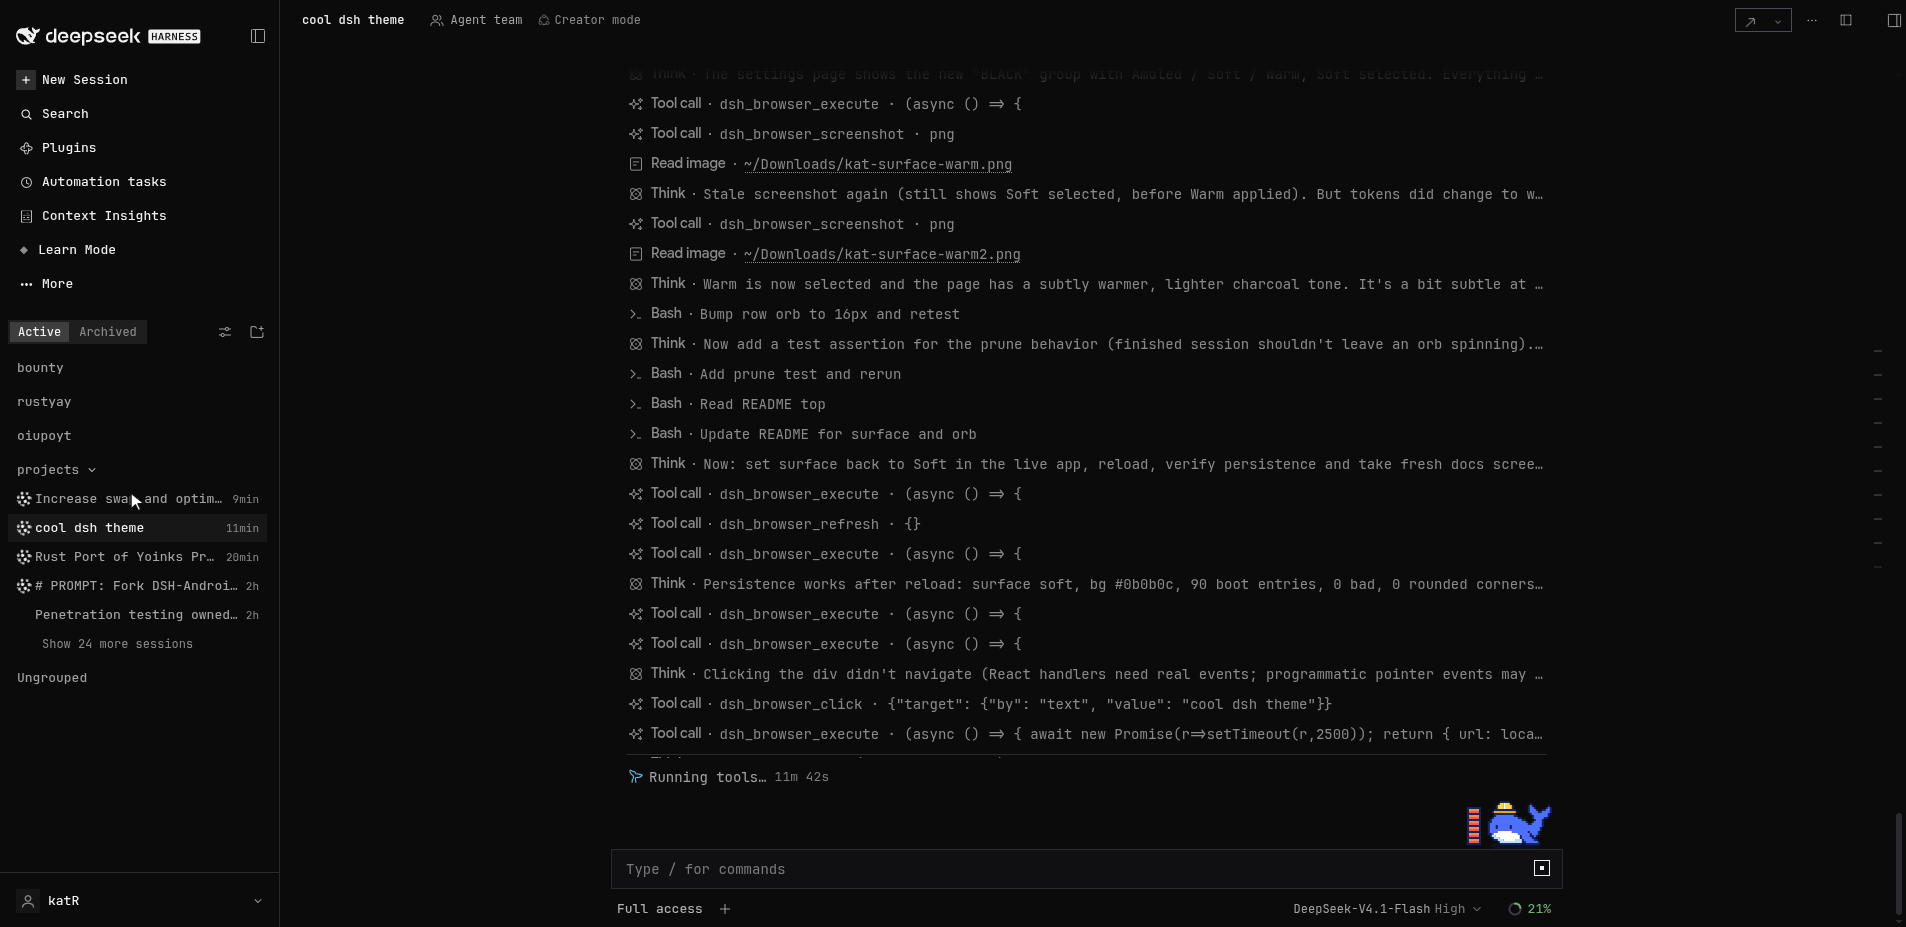
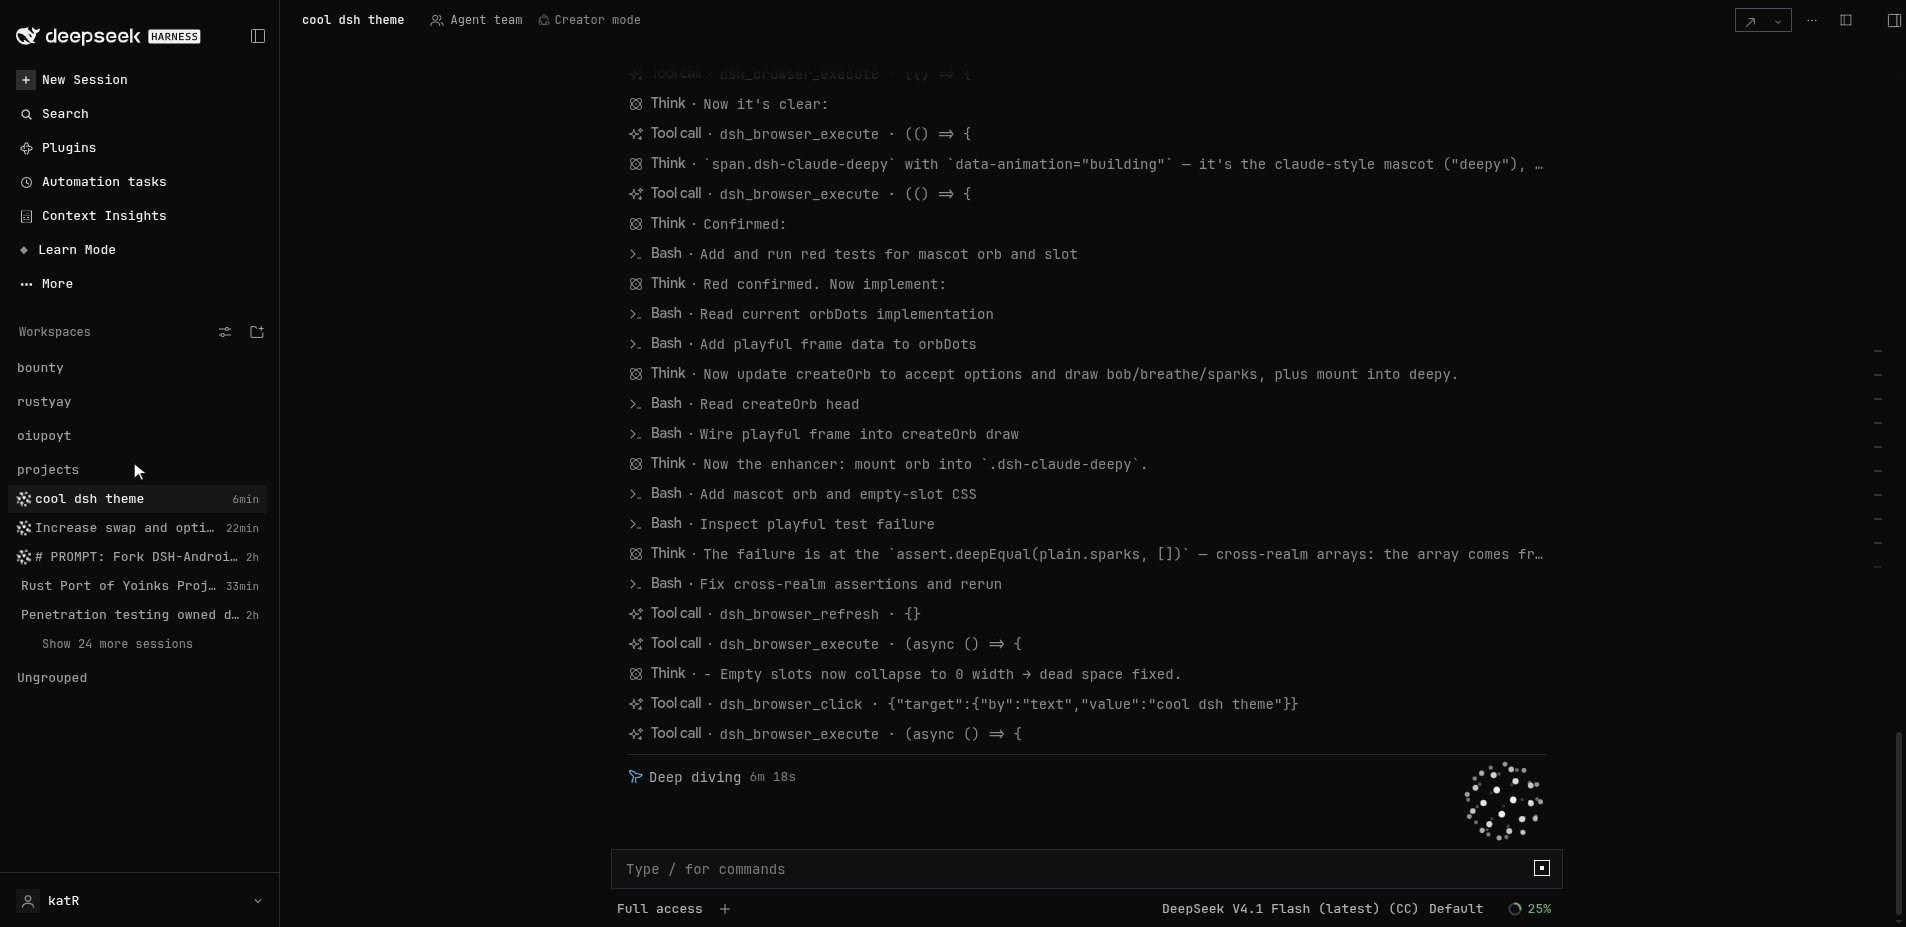
feat: orb takes the composer mascot, playful motion, dynamic list column
The whale above the prompt box is claude-style's mascot sprite. Only the
sprite is hidden; the host element and its hit area stay, so the mascot
bubble keeps working, and the orb is drawn in the same box.

The mascot orb is the playful one: it bobs on its own rhythm, breathes a
few percent and sheds three sparks on expanding orbits. Row and boot orbs
stay still by design - a session list should not wobble.

Session rows reserved a status column even when they had no status, which
reads as a hole where the light would be. The column now collapses when
its leading slot is empty, so it appears only on rows that have an
indicator.

Presets retuned after looking at them at real size: twelve dots at 16px
instead of twenty, sixty-four at 89px instead of forty-six - the old
counts merged into a blob at row size and looked chunky at composer size.

diff --git a/client.js b/client.js
@@ -314,12 +314,35 @@ window.__ModuleLoader__.load({
        Jakub Antalik); drawn here on a plain 2D canvas so the bundle keeps its
        no-dependencies promise. */
     const ORB_PRESETS = {
-      sm: { dots: 20, weight: 0.07, speed: 0.9, tilt: 0.62 },
-      lg: { dots: 46, weight: 0.026, speed: 0.55, tilt: 0.5 },
+      sm: { dots: 12, weight: 0.09, speed: 0.9, tilt: 0.62 },
+      lg: { dots: 64, weight: 0.018, speed: 0.55, tilt: 0.5 },
     }
     const ORB_SCALE = 0.84
 
-    function orbDots(t, size) {
+    /**
+     * `playful` turns the mascot orb into a character rather than a status
+     * light: it bobs on its own rhythm, breathes a few percent, and sheds
+     * sparks on expanding orbits. Kept opt-in so sixteen of them in a session
+     * list stay still.
+     */
+    function orbSparks(t, size) {
+      const sparks = []
+      for (let i = 0; i < 3; i++) {
+        const phase = (t * 0.34 + i / 3) % 1
+        const angle = t * 0.55 + i * ((Math.PI * 2) / 3)
+        const radius = size * (0.3 + phase * 0.2)
+        sparks.push({
+          x: size / 2 + Math.cos(angle) * radius,
+          y: size / 2 + Math.sin(angle) * radius,
+          r: Math.max(0.5, size * 0.018 * (1 - phase)),
+          a: (1 - phase) * 0.6,
+        })
+      }
+      return sparks
+    }
+
+    function orbDots(t, size, options) {
+      const playful = options !== undefined && options.playful === true
       const preset = size <= 24 ? ORB_PRESETS.sm : ORB_PRESETS.lg
       const n = preset.dots
       const c = size / 2
@@ -348,7 +371,13 @@ window.__ModuleLoader__.load({
           a: 0.16 + depth * 0.84,
         })
       }
-      return { size, dots }
+      return {
+        size,
+        dots,
+        bob: playful ? Math.sin(t * 1.7) * size * 0.022 : 0,
+        breathe: playful ? 1 + Math.sin(t * 1.15) * 0.034 : 1,
+        sparks: playful ? orbSparks(t, size) : [],
+      }
     }
 
     function orbInk() {
@@ -362,7 +391,7 @@ window.__ModuleLoader__.load({
     }
 
     /** Returns { element, dispose } or null when the platform cannot draw. */
-    function createOrb(size, label) {
+    function createOrb(size, label, options) {
       try {
         if (typeof document === 'undefined' || typeof document.createElement !== 'function') return null
         const canvas = document.createElement('canvas')
@@ -383,14 +412,28 @@ window.__ModuleLoader__.load({
         ctx2d.setTransform(dpr, 0, 0, dpr, 0, 0)
 
         const draw = (t) => {
+          const frame = orbDots(t, size, options)
           ctx2d.clearRect(0, 0, size, size)
           ctx2d.fillStyle = orbInk()
-          for (const dot of orbDots(t, size).dots) {
+          const c = size / 2
+          ctx2d.save()
+          // Bob and breathe around the orb's own centre, never the canvas corner.
+          ctx2d.translate(c, c + frame.bob)
+          ctx2d.scale(frame.breathe, frame.breathe)
+          ctx2d.translate(-c, -c)
+          for (const dot of frame.dots) {
             ctx2d.globalAlpha = dot.a
             ctx2d.beginPath()
             ctx2d.arc(dot.x, dot.y, dot.r, 0, Math.PI * 2)
             ctx2d.fill()
           }
+          for (const spark of frame.sparks) {
+            ctx2d.globalAlpha = spark.a
+            ctx2d.beginPath()
+            ctx2d.arc(spark.x, spark.y, spark.r, 0, Math.PI * 2)
+            ctx2d.fill()
+          }
+          ctx2d.restore()
           ctx2d.globalAlpha = 1
         }
 
@@ -565,6 +608,33 @@ ${K} [data-dsh-boot] [class*="hint"]{
   font-size:11px !important;
   letter-spacing:.02em;
   color:var(--dsw-alias-label-dimmed,#6b6b6b) !important;
+}
+
+/* The composer mascot: claude-style paints a spritesheet whale above the
+   prompt box and hangs a click bubble off the same host. The sprite is hidden
+   and the orb drawn in its place; the host element and its hit area stay, so
+   the bubble keeps working. */
+${K} .dsh-claude-deepy-sprite{
+  opacity:0 !important;
+  visibility:hidden !important;
+}
+${K} [data-kat-orb-deepy]{
+  position:absolute !important;
+  inset:0;margin:auto;
+  z-index:0;
+}
+
+/* Idle sessions render an empty leading slot that still reserves its width,
+   which reads as a hole where the status light would be. Collapse it: the
+   space appears only for a row that actually has an indicator. */
+${K} [class*="slot"]:has(> [data-slot="sidebar.session.row.leading"]:empty){
+  width:0 !important;
+  min-width:0 !important;
+  padding-left:0 !important;
+  padding-right:0 !important;
+  margin-left:0 !important;
+  margin-right:0 !important;
+  overflow:hidden !important;
 }
 
 /* Effort picker, list form: the host vertical radio menu becomes a
@@ -1035,10 +1105,26 @@ ${K} .kat-settings-option:focus-visible{outline:2px solid var(--dsw-alias-brand-
             }
           }
 
+          const mountMascotOrb = () => {
+            const deepy = document.querySelector('.dsh-claude-deepy')
+            if (!deepy || done.has(deepy)) return
+            const box = deepy.getBoundingClientRect ? deepy.getBoundingClientRect() : null
+            const edge = Math.min((box && box.width) || 104, (box && box.height) || 104)
+            const orb = createOrb(Math.max(40, Math.round(edge * 0.86)), 'Thinking orb', {
+              playful: true,
+            })
+            if (!orb) return
+            done.add(deepy)
+            orb.element.setAttribute('data-kat-orb-deepy', '')
+            deepy.appendChild(orb.element)
+            live.push({ orb, host: null, spinner: deepy })
+          }
+
           const scan = () => {
             try {
               prune()
               mountBootOrb()
+              mountMascotOrb()
               for (const svg of document.querySelectorAll('svg[data-state="ongoing"]')) {
                 mountRowOrb(svg)
               }

diff --git a/README.md b/README.md
@@ -19,13 +19,21 @@ Black, square, mono, quiet.
   sans unless you switch it to mono.
 - **Motion.** Calm by default: chrome loops stop, one-shot transitions stay
   snappy. Progress indicators keep spinning so loading never looks finished.
-- **Thinking orb.** The working-session indicator and the boot screen show a
-  dotted orb instead of a ring: points on a Fibonacci sphere, turned about a
-  tilted axis and shaded by depth. Two presets (16px rows, 56px boot), ink read
-  from the label token, DPR capped at 2, paused off-screen, and a still frame
-  under reduced motion. Drawn on a plain 2D canvas, inspired by
-  [thinking-orbs](https://rareformlabs.github.io/thinking-orbs/) (MIT, Jakub
+- **Thinking orb.** Working sessions, the boot screen and the composer mascot
+  show a dotted orb: points on a Fibonacci sphere, turned about a tilted axis
+  and shaded by depth. Three presets (16px session rows, 56px boot, 89px
+  composer), ink read from the label token, DPR capped at 2, paused off-screen,
+  and a still frame under reduced motion. Drawn on a plain 2D canvas, inspired
+  by [thinking-orbs](https://rareformlabs.github.io/thinking-orbs/) (MIT, Jakub
   Antalik); no runtime dependency, so the bundle stays one file.
+- **Composer mascot.** The DeepSeek whale above the prompt box is replaced by
+  the orb, drawn where the sprite was. Only the sprite is hidden: the host
+  element and its click target stay, so the mascot's bubble still works. That
+  orb is the playful one - it bobs on its own rhythm, breathes a few percent
+  and sheds sparks.
+- **List spacing.** A session row reserves a status-light column only when it
+  has a status light. Idle rows collapse that column instead of showing a hole,
+  so the list reads ragged-left where it used to read as broken.
 - **Top bar.** One compact band: the session title, mode chips and utility
   icons on a 32px row, the view tabs on a 32px rail below it, one hairline
   under the band, mono labels, and a single accent underline on the active tab.
